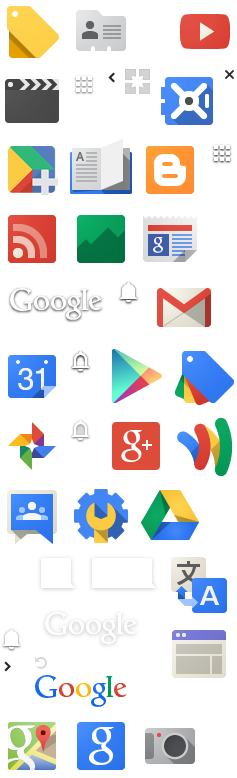
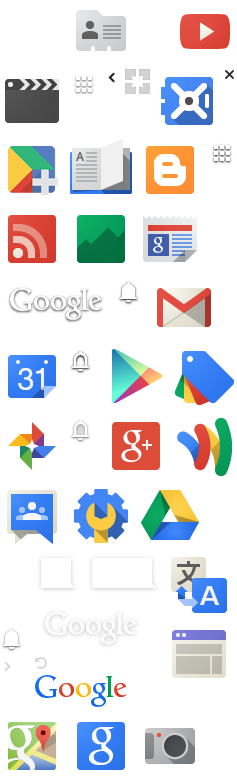
apps and share button fix

Changed region(s): [[0.0295, 0.0, 0.2658, 0.0925], [0.0, 0.8329, 0.0295, 0.8638]]

diff --git a/googleplaynightflight.css b/googleplaynightflight.css
@@ -33,11 +33,11 @@ a:link, a:visited, a:active {
 .gb-reader-container, .play-button.wishlist-content.wishlist-added, .list-row:hover, .ctp-body, .ac-renderer, .cluster-container, .device-selector-dropdown-children, .modal-dialog, .leaf-submenu-link-wrapper:hover, .parent-submenu-link-wrapper:hover, .child-submenu-link-wrapper:hover, .dropdown-submenu, .dropdown-sub-submenu, .body-content-loading-overlay, .details-section, .dropdown-child.selected, .dropdown-child:hover, .dropdown-menu-children, .app-translation-bar, .play-button.icon-button.small.rate-review, .xa, .developer-reply, .GHK2A-RDACB, .windowed > .KX, .gwt-PopupPanel, .gwt-DialogBox, .GC1JCF1CKMC, .GC1JCF1CDKC:hover, .gwt-PopupPanelGlass, .GC1JCF1COAB sidebar li:hover, .GC1JCF1CEY, #search-section.rounded, .action-bar-link.action-bar-cart-item.play-button.small, .play-button.large, .gb_v, .menu-link.id-no-menu-change.not-selected, #play-header, .redeem-term-links, #maia-footer-global, .gb_Vb.gb_db, .gb_0, .gb_Ab {
 	background-color: rgba(0, 0, 0, 0.6) !important;
 }
-.hover-target:hover, .play-button.wishlist-content.wishlist-remove, .overflow-menu-item:hover, .track-list-row:hover td, .track-list-row.playing td, .track-list-row.loading td, .device-table, .apps .ctp-header.no-banner, .ac-active, .gb_t, .Bc, .gb_r, .device-selected, .device-selector-dropdown-child:hover, .permissions-container, .modal-dialog-overlay, .action-bar, .details-info, .review-panel-content, .footer, .GC1JCF1CIKC, .GC1JCF1CDKC.GC1JCF1CCKC, .GC1JCF1CGAC, .GC1JCF1CGY.GC1JCF1CMX, .GC1JCF1COAB sidebar li.GC1JCF1CABB, .GC1JCF1CEY.GC1JCF1COX, .purchase-row, .GC1JCF1CPAD, .GC1JCF1CDHD, .GC1JCF1CAUD > li, ol.GC1JCF1CA2, .GC1JCF1CAAC, .GC1JCF1CIV:hover, .GC1JCF1CIW:hover, .GC1JCF1CLAC, .rated-scrim, .action-bar-aux .action-bar-link:hover, #maia-footer-local {
+.hover-target:hover, .play-button.wishlist-content.wishlist-remove, .overflow-menu-item:hover, .track-list-row:hover td, .track-list-row.playing td, .track-list-row.loading td, .device-table, .apps .ctp-header.no-banner, .ac-active, .gb_t, .Bc, .gb_r, .device-selected, .device-selector-dropdown-child:hover, .permissions-container, .modal-dialog-overlay, .action-bar, .details-info, .review-panel-content, .footer, .GC1JCF1CIKC, .GC1JCF1CDKC.GC1JCF1CCKC, .GC1JCF1CGAC, .GC1JCF1CGY.GC1JCF1CMX, .GC1JCF1COAB sidebar li.GC1JCF1CABB, .GC1JCF1CEY.GC1JCF1COX, .purchase-row, .GC1JCF1CPAD, .GC1JCF1CDHD, .GC1JCF1CAUD > li, ol.GC1JCF1CA2, .GC1JCF1CAAC, .GC1JCF1CIV:hover, .GC1JCF1CIW:hover, .GC1JCF1CLAC, .rated-scrim, .action-bar-aux .action-bar-link:hover, #maia-footer-local, .gb_w {
 	background-color: rgba(0, 0, 0, 0.4) !important;
 }
 /* white */
-.overflow-menu-button:hover, .overflow-menu, .overflow-menu-button-highlighted, .gb_a:hover .gb_h, .gb_u, .Gb.WK, .dropdown-menu:hover, .expand-button .play-button, .card-content, select, textarea, .nav .secondary-sub-nav-option:hover, .nav .sub-nav-option:hover, .gbqfqw, #search-box, .purchase-confirm, .GHK2A-RDMFB, .GHK2A-RDKFB, .GHK2A-RDAHB li, .gwt-TextBox, .GC1JCF1CKAC, .GC1JCF1CP3, .GC1JCF1CKWB:hover, .GC1JCF1CKXB:hover, .review-input-text-box.write-review-title, .redeem-input-text-box, .gb_4 {
+.overflow-menu-button:hover, .overflow-menu, .overflow-menu-button-highlighted, .gb_a:hover .gb_h, .gb_u, .Gb.WK, .dropdown-menu:hover, .expand-button .play-button, .card-content, select, textarea, .nav .secondary-sub-nav-option:hover, .nav .sub-nav-option:hover, .gbqfqw, #search-box, .purchase-confirm, .GHK2A-RDMFB, .GHK2A-RDKFB, .GHK2A-RDAHB li, .gwt-TextBox, .GC1JCF1CKAC, .GC1JCF1CP3, .GC1JCF1CKWB:hover, .GC1JCF1CKXB:hover, .review-input-text-box.write-review-title, .redeem-input-text-box, .gb_4, .gb_b:hover .gb_i {
 	background-color: rgba(255, 255, 255, 0.1) !important;
 }
 .nav .apps .selected .hover-target, .play-button.apps, .nav .apps .icon-container  { /* green */
